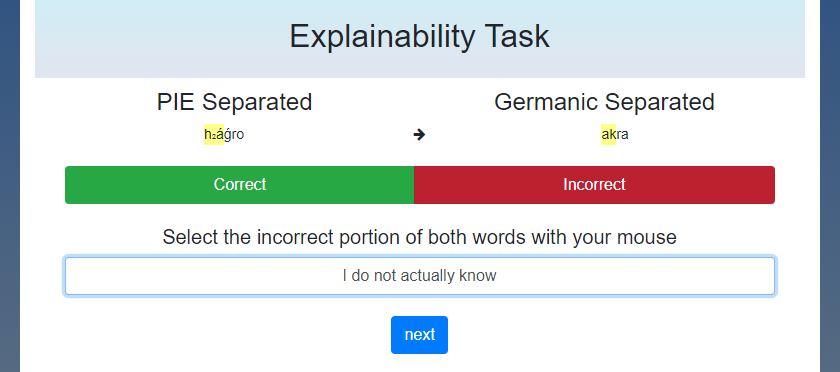
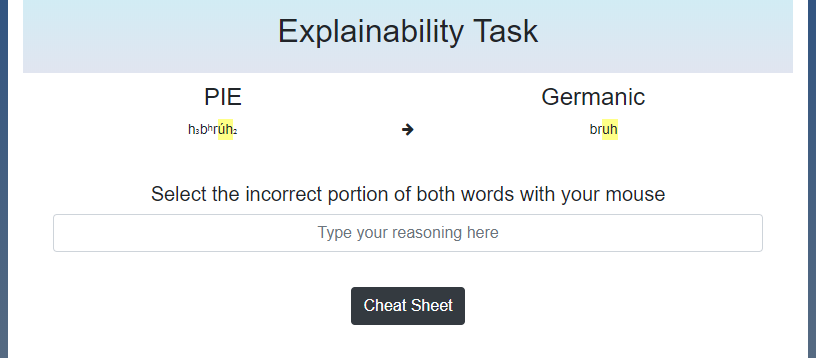
implemented toggle hint, made it word

diff --git a/imports/ui/body.html b/imports/ui/body.html
@@ -1,65 +1,5 @@
 <body>
 	<div class="container position-relative">
-
-<!--        this first one is defunct       -->
-        {{#if screen "start"}}
-            <header>
-                <h2 class="text-center">
-                    Digital PIE Survey
-                </h2>
-            </header>
-            <div class="row">
-                <div class="col-md">
-                    <h3 class="text-center">Instructions</h3>
-                    <p>
-                        You will be given a set of PIE words and their Germanic outcomes. If the change is correct, select "Correct" and then click "Next".
-                        If the change is incorrect, select "Incorrect" and then highlight what is incorrect in both words. Be sure to describe what is wrong in the given Germanic form and what the correct sound(s) should be.
-                        Use complete sentences when providing a description. When you select the portion of the word, it will leave it highlighted as seen in the screenshot below.
-                        Double check that what you have written is correct and then hit "Next". Note that you <i>cannot</i> go back to previous entries to correct them.
-                        <br/>
-                        Mobile/touch users please touch the area next to the word you are selecting to clear your selection and activate the highlighting. Tap the arrow between the words to clear the highlighting.
-                        <br/>
-                    </p>
-                </div>
-            </div>
-            <div class="row">
-                <div class="col d-flex align-items-center justify-content-center">
-                    <img class="img-fluid align-items-center" width="80%" src="images/example.png"/>
-                </div>
-            </div>
-            <div class="row">
-                <div class="col-md">
-                    <h3 class="text-center">Purpose</h3>
-                    <p>
-                        This project is part of a collaboration between the Linguistics and the Computer Science departments of the University of Kentucky.
-                        The purpose of this project is to collect data to train a machine learning model to be able to explain why a certain change is wrong.
-                        This will be implemented into an educational game called Roots of the Ancients aimed at young students learning about PIE.
-                        We need help from experts and people knowledgeable about PIE to generate this model.
-                    </p>
-                </div>
-            </div>
-            <div class="row">
-                <div class="col-sm text-center">
-                    <div class="btn btn-success start-button"> Click to proceed </div>
-                </div>
-            </div>
-    <!--        <div class="row position-absolute" style="bottom:10px;">
-                <div class="col d-flex align-items-center justify-content-center">
-                    <img src="images/logos/college_of_as.png" style="width:80%;" class="img-fluid align-items-center"/>
-                </div>
-                <div class="col d-flex align-items-center justify-content-center">
-                    <img src="images/logos/RotA-logo.png" style="width:80%;" class="img-fluid"/>
-                </div>
-                <div class="col d-flex align-items-center justify-content-center">
-                    <img src="images/logos/CoRGI-Lab.png" style="width:80%;" class="img-fluid"/>
-                </div>
-                <div class="col d-flex align-items-center justify-content-center">
-                    <img src="images/logos/uk-coe-logo.png" style="width:80%;" class="img-fluid"/>
-                </div>
-            </div>-->
-
-        {{/if}}
-
         {{#if screen "start1"}}
             <header>
                 <h2 class="text-center">
@@ -68,9 +8,31 @@
             </header>
             <div class="row">
                 <div class="col-md">
-                    <h3 class="text-center">
+                    <h5 class="text-center">
                         Greetings from Kentucky! Thank you for visiting our site.
-                    </h3>
+                    </h5>
+                    <h3 class="text-center">Why am I here?</h3>
+                    <p>
+                        You are here to help a computer learn how experts in Indo-European Studies describe how sounds
+                        change from PIE to Proto-Germanic.
+                        <br>
+                    </p>
+                    <p>
+                        Your responses will help to make the first reconstruction puzzle possible for the video game
+                        Roots of the Ancients (ROTA). ROTA is designed to provide a straightforward, engaging way to
+                        introduce middle schoolers (10-13) to the idea of Proto-Indo-European language and culture. If
+                        you would like to play a brief demo or watch a video of gameplay, click on
+                        <a href="https://sites.google.com/view/byrd-byrd-harrison/home">this link</a>.
+                        <br>
+                    </p>
+                    <p>
+                        <br>
+                    </p>
+                </div>
+            </div>
+            <div class="row">
+                <div class="col d-flex align-items-center justify-content-center">
+                    <img class="img-fluid align-items-center" width="80%" src="images/ingame_screenshot.jpg"/>
                 </div>
             </div>
             <div class="row">
@@ -87,31 +49,29 @@
             </header>
             <div class="row">
                 <div class="col-md">
-                    <h3 class="text-center">Why am I here?</h3>
+                    <h3 class="text-center">What will you do?</h3>
                     <p>
-                        You are here to help a computer learn how experts in Indo-European Studies describe how sounds
-                        change from PIE to Proto-Germanic.
+                        You will be given a set of PIE words and their Germanic outcomes. In each of the sets there is
+                        one error in the Proto-Germanic derivation. You’ll begin by highlighting the incorrect portion
+                        of each words with your mouse. Mobile/touch users please touch the area next to the word you are
+                        selecting to clear your selection and activate the highlighting. Tap the arrow between the words
+                        to clear the highlighting.
                         <br>
                     </p>
                     <p>
-                        Your responses will help to make the first reconstruction puzzle possible for the video game Roots
-                        of the Ancients (ROTA). ROTA is designed to provide a straightforward, engaging way to introduce
-                        middle schoolers (10-13) to the idea of Proto-Indo-European language and culture.  If you would like
-                        to play a brief demo or watch a video of gameplay, click on
-                        <a href="https://sites.google.com/view/byrd-byrd-harrison/home">this link</a>.
+                        Below, PIE h₃w and Germanic w are highlighted as the incorrect portions.
                         <br>
                     </p>
-                    <p>
-                        In the game, we would like players to learn about PIE through smart “etymology puzzles”, in which
-                        players will figure out how certain PIE words have changed into the various sub-branches, like
-                        Germanic. Players receive targeted feedback so that they will learn what they did wrong and how to
-                        fix it.
-                        <br>
-                    </p>
+
                 </div>
             </div>
             <div class="row">
-                <div class="col-sm text-center">
+                <div class="col d-flex align-items-center justify-content-center">
+                    <img class="img-fluid align-items-center" width="80%" src="images/explanation-1.png"/>
+                </div>
+            </div>
+            <div class="row">
+                <div class="col-sm text-center pt-2">
                     <div class="btn btn-success start-button"> Click to proceed </div>
                 </div>
             </div>
@@ -126,31 +86,16 @@
                 <div class="col-md">
                     <h3 class="text-center">What will you do?</h3>
                     <p>
-                        You will be given a set of PIE words and their Germanic outcomes. Highlight
-                        what is incorrect in both words. Be sure to describe what is wrong in the given Germanic form and
-                        what the correct sound(s) should be. Use complete sentences when providing a description. When you
-                        select the portion of the word, it will leave it highlighted as seen in the screenshot below. Double
-                        check that what you have written is correct and then hit "Next". Note that you cannot go back to
-                        previous entries to correct them.
-                        <br>
-                    </p>
-                    <p>
-                        Mobile/touch users please touch the area next to the word you are selecting to clear your selection
-                        and activate the highlighting. Tap the arrow between the words to clear the highlighting.
-                        <br>
-                    </p>
-                    <p>
-                        In the game, we would like players to learn about PIE through smart “etymology puzzles”, in which
-                        players will figure out how certain PIE words have changed into the various sub-branches, like
-                        Germanic. Players receive targeted feedback so that they will learn what they did wrong and how to
-                        fix it.
+                        Once both incorrect sections are highlighted, you will be able to describe what is wrong in the
+                        given Germanic form and what the correct sound(s) should be. Use complete sentences when
+                        providing a description.
                         <br>
                     </p>
                 </div>
             </div>
             <div class="row">
                 <div class="col d-flex align-items-center justify-content-center">
-                    <img class="img-fluid align-items-center" width="80%" src="images/example.png"/>
+                    <img class="img-fluid align-items-center" width="80%" src="images/explanation-2.png"/>
                 </div>
             </div>
             <div class="row">
@@ -160,6 +105,38 @@
             </div>
         {{/if}}
         {{#if screen "start4"}}
+            <header>
+                <h2 class="text-center">
+                    Digital PIE Survey
+                </h2>
+            </header>
+            <div class="row">
+                <div class="col-md">
+                    <h3 class="text-center">What will you do?</h3>
+                    <p>
+                        You may be uncertain what specific changes we’re looking for. In these cases, we have provided a
+                        “toggle hint” button, which will allow you to see the proposed PIE and Germanic forms.
+                        <br>
+                    </p>
+                    <p>
+                        Double check that what you have written is correct and then hit "Next". Note that you cannot go
+                        back to previous entries to correct them.
+                        <br>
+                    </p>
+                </div>
+            </div>
+            <div class="row">
+                <div class="col d-flex align-items-center justify-content-center">
+                    <img class="img-fluid align-items-center" width="80%" src="images/explanation-3.png"/>
+                </div>
+            </div>
+            <div class="row">
+                <div class="col-sm text-center">
+                    <div class="btn btn-success start-button"> Click to proceed </div>
+                </div>
+            </div>
+        {{/if}}
+        {{#if screen "start5"}}
             <header>
                 <h2 class="text-center">
                     Digital PIE Survey
@@ -180,10 +157,6 @@
                     <p>
                         All of this is due to how the machine learns -- the machine cannot learn the correct changes if we give it exceptional data.
                     </p>
-                    <p>
-                        For this reason, we have included the expected change at the bottom of the screen during the puzzle.
-                        <br>
-                    </p>
                 </div>
             </div>
             <div class="row">
@@ -192,7 +165,7 @@
                 </div>
             </div>
         {{/if}}
-        {{#if screen "start5"}}
+        {{#if screen "start6"}}
             <header>
                 <h2 class="text-center">
                     Digital PIE Survey
@@ -241,12 +214,7 @@
 
                     </div>
                 </div>
-            </form>
-            <div class="row pt-4">
-                <div class="col text-center">
-                        <a class="btn btn-dark" href="https://drive.google.com/file/d/10izIiXNqCk0oN9Mq5O8uwtngHIT21t8o/view" target="_blank">Cheat Sheet</a>
-                </div>
-            </div>
+                </form>
         </div>
 
 

diff --git a/imports/ui/task.html b/imports/ui/task.html
@@ -14,17 +14,6 @@
             {{/if}}
         </div>
         <br>
-<!--        <div class="row">-->
-<!--            <div class="col-sm text-center btn-group btn-group-toggle answer-correct" data-toggle="buttons">-->
-<!--                <label class="btn btn-success active">-->
-<!--                    <input type="radio" name="options" autocomplete="off">Correct -->
-<!--                </label>-->
-<!--                <label class="btn btn-danger">-->
-<!--                    <input type="radio" name="options" autocomplete="off">Incorrect-->
-<!--                </label>-->
-<!--            </div>-->
-<!--            <input type="hidden" class="change-correct">-->
-<!--        </div>-->
         <br>
         <div class="row">
             <div class="col-sm text-center">
@@ -34,6 +23,22 @@
         <div class="row reasoning">
             <div class="col-sm text-center">
                 <input type="text" class="reasoning-form form-control text-center" placeholder="Type your reasoning here">
+            </div>
+        </div>
+        <div class="row pt-4">
+            <div class="col text-center">
+                <button class="btn cheat-btn btn-dark">Toggle Hint</button>
+            </div>
+        </div>
+        <div class="hint-box mt-2 p-2 rounded bg-info" style="display: none">
+            <div class="row">
+                <div class="col-sm h4 text-center">PIE</div>
+                <div class="col-sm h4 text-center">Corrected Germanic</div>
+            </div>
+            <div class="row">
+                <div class="col-sm text-center">{{PIE}}<input type="hidden" class="PIE-hidden-selected"/></div>
+                <div class="col-sm-auto text-center"><i class="fa fa-arrow-right"></i></div>
+                <div class="col-sm text-center">{{right}}<input type="hidden" class="Germ-hidden-selected"/></div>
             </div>
         </div>
     </div>

diff --git a/imports/ui/body.js b/imports/ui/body.js
@@ -13,7 +13,7 @@ let endScreen = new ReactiveVar(false)
 let submitted = new ReactiveVar(false)
 let ranOut = new ReactiveVar(false)
 
-let startTextList = ["start1", "start2", "start3", "start4", "start5", "task"]
+let startTextList = ["start1", "start2", "start3", "start4", "start5", "start6", "task"]
 
 export const updateView = function(){
 	$(".answer").hide()
@@ -149,7 +149,10 @@ Template.body.events({
 		console.log(Session.get("taskStep"),Session.get("maxStep"))
 		$($(".answer:nth-child(" + (Session.get("taskStep")+1) +")")[0]).attr("complete", "true")
 		Session.set("taskStep", Session.get("taskStep")+1)
-		if(Session.get("taskStep") >= Session.get("maxStep") || Session.get("taskStep") >= Translations.find({}).fetch().length) {
+
+		// if(Session.get("taskStep") >= Session.get("maxStep") || Session.get("taskStep") >= Translations.find({}).fetch().length) {
+		// make them do all of them
+		if(Session.get("taskStep") >= Translations.find({}).fetch().length) {
 			Session.set("currentPage", "end")
 		}
 		ranOut.set(Session.get("taskStep") >= Translations.find({}).fetch().length)

diff --git a/imports/ui/task.js b/imports/ui/task.js
@@ -33,6 +33,10 @@ Template.task.events({
 	},
 	'input .answer input':checkNextButton,
 	'click':checkNextButton,
+	'click .cheat-btn'(){
+		let containerParent = $(".answer:visible")
+		containerParent.find(".hint-box").toggle()
+	}
 });
 
 function checkNextButton(event) {
